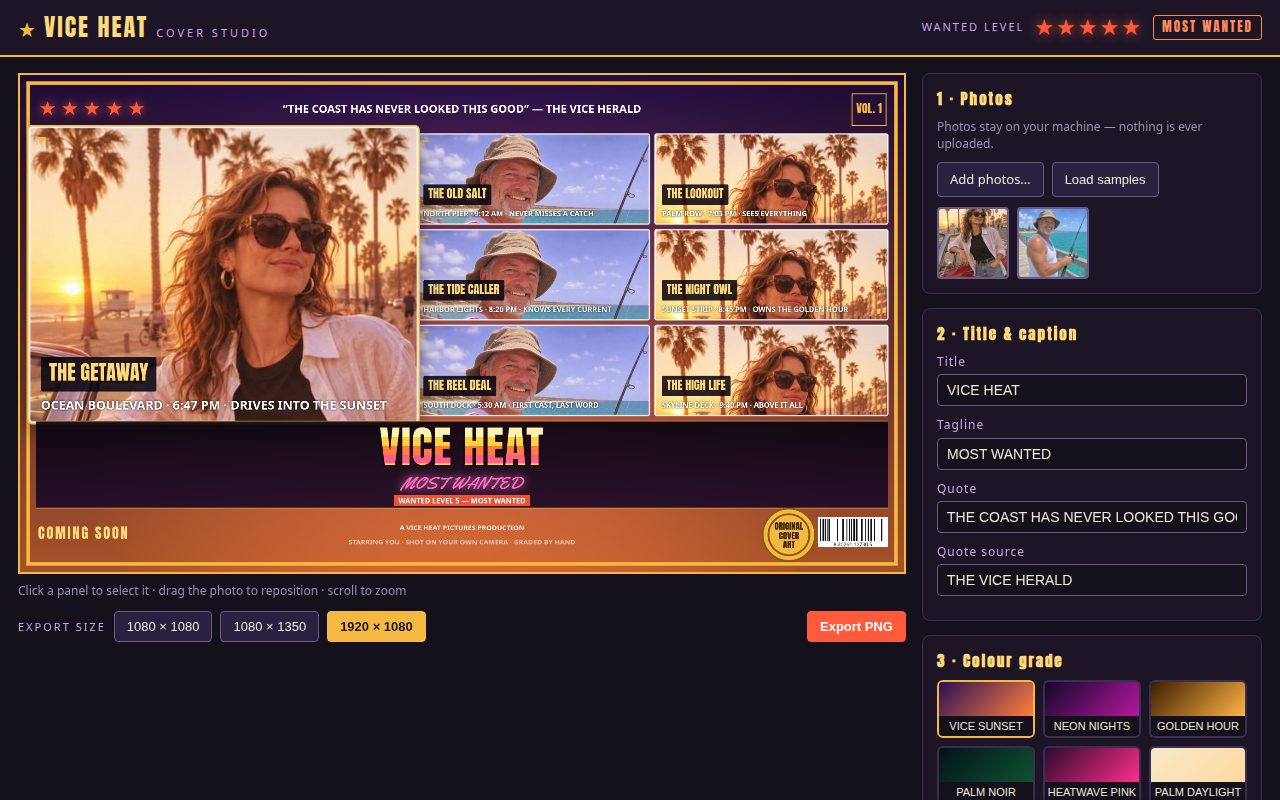
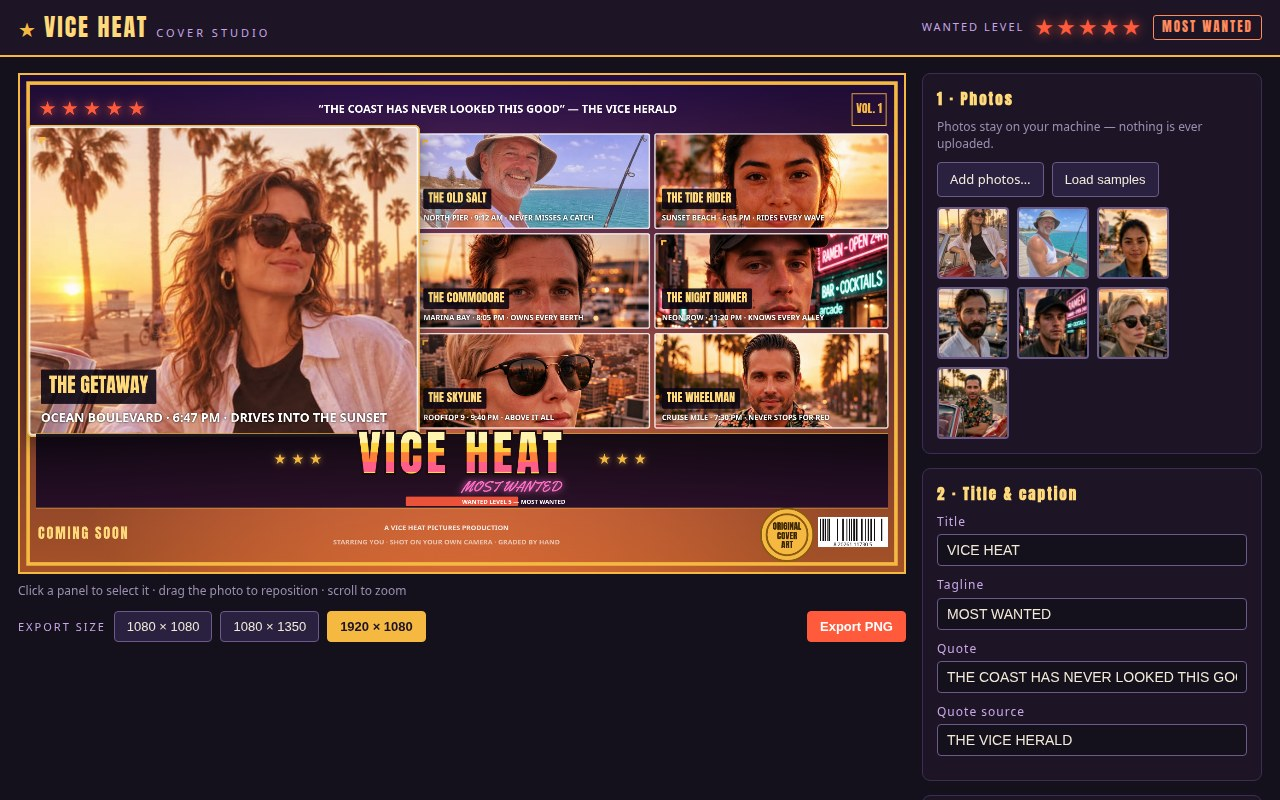
Fix 1 (blind test): 7 distinct photos + bigger title band
- 5 new image-model-made portrait samples (beach/marina/street/rooftop/car),
  face-centered 3:4 crops; 7 photos feed 7 panels, no face repeats
- PANEL_DEFAULTS rewritten to match each new photo; SAMPLE_FACES carries
  measured face points per sample (finder drifts on tall portraits)
- Title band: titleH 0.175H->0.15H, title bigger with wider tracking and 3
  flanking gold stars each side; vertical spacing rebalanced so tagline,
  chip and panel story lines never collide
- Screenshots re-rendered (all <=256 KiB) and viewed; main.ts runs twice
  byte-identical

Changed region(s): [[0.0, 0.125, 1.0, 1.0], [0.5938, 0.625, 0.6562, 0.7188]]

diff --git a/app/app.js b/app/app.js
@@ -39,16 +39,17 @@ const GRADES = [
     title: ["#5b2a86", "#8e44ad", "#ff7e3d", "#d6336c", "#5b2a86"], tagline: "#d6336c", frame: "#8e44ad" },
 ];
 
-// Role, place, time and boast defaults, written for the two sample photos.
-// Every panel gets its own micro-story: PLACE · TIME · BOAST.
+// Role, place, time and boast defaults, written for the seven sample photos:
+// one photo per panel, so no face repeats. Every panel gets its own
+// micro-story: PLACE · TIME · BOAST.
 const PANEL_DEFAULTS = [
   { role: "THE GETAWAY", place: "OCEAN BOULEVARD", time: "6:47 PM", boast: "DRIVES INTO THE SUNSET" },
   { role: "THE OLD SALT", place: "NORTH PIER", time: "9:12 AM", boast: "NEVER MISSES A CATCH" },
-  { role: "THE LOOKOUT", place: "PALM ROW", time: "7:03 PM", boast: "SEES EVERYTHING" },
-  { role: "THE TIDE CALLER", place: "HARBOR LIGHTS", time: "8:20 PM", boast: "KNOWS EVERY CURRENT" },
-  { role: "THE NIGHT OWL", place: "SUNSET STRIP", time: "8:45 PM", boast: "OWNS THE GOLDEN HOUR" },
-  { role: "THE REEL DEAL", place: "SOUTH DOCK", time: "5:30 AM", boast: "FIRST CAST, LAST WORD" },
-  { role: "THE HIGH LIFE", place: "SKYLINE DECK", time: "9:40 PM", boast: "ABOVE IT ALL" },
+  { role: "THE TIDE RIDER", place: "SUNSET BEACH", time: "6:15 PM", boast: "RIDES EVERY WAVE" },
+  { role: "THE COMMODORE", place: "MARINA BAY", time: "8:05 PM", boast: "OWNS EVERY BERTH" },
+  { role: "THE NIGHT RUNNER", place: "NEON ROW", time: "11:20 PM", boast: "KNOWS EVERY ALLEY" },
+  { role: "THE SKYLINE", place: "ROOFTOP 9", time: "9:40 PM", boast: "ABOVE IT ALL" },
+  { role: "THE WHEELMAN", place: "CRUISE MILE", time: "7:30 PM", boast: "NEVER STOPS FOR RED" },
 ];
 
 const state = {
@@ -146,13 +147,29 @@ function loadImage(src) {
   });
 }
 
+// Face points for the shipped samples, measured from the photos themselves:
+// the skin-cluster finder drifts on tall portraits (it pulls toward neck
+// and shoulders), so the samples carry their own face point. User photos
+// still go through findFacePoint in addPhoto.
+const SAMPLE_FACES = {
+  boulevard: { fx: 0.42, fy: 0.16 },
+  pier: { fx: 0.50, fy: 0.30 },
+  beach: { fx: 0.50, fy: 0.50 },
+  marina: { fx: 0.55, fy: 0.34 },
+  street: { fx: 0.50, fy: 0.49 },
+  rooftop: { fx: 0.50, fy: 0.50 },
+  car: { fx: 0.52, fy: 0.34 },
+};
+
 async function loadSamples() {
-  const names = ["boulevard", "pier"];
+  const names = ["boulevard", "pier", "beach", "marina", "street", "rooftop", "car"];
   for (const name of names) {
     if (state.photos.some((p) => p.name === name)) continue;
     try {
       const img = await loadImage(`samples/${name}.jpg`);
-      addPhoto(img, name);
+      const photo = addPhoto(img, name);
+      const known = SAMPLE_FACES[name];
+      if (known) { photo.fx = known.fx; photo.fy = known.fy; }
     } catch (e) { /* sample missing: keep going */ }
   }
   rebuildPanels();
@@ -201,7 +218,7 @@ function computeLayout(W, H, count) {
   const m = Math.round(W * 0.018);
   const gap = Math.max(4, Math.round(W * 0.006));
   const topH = Math.round(H * 0.075);
-  const titleH = Math.round(H * 0.175);
+  const titleH = Math.round(H * 0.15);
   const footH = Math.round(H * 0.085);
   const panelsY = m + topH + gap;
   const panelsH = H - m * 2 - topH - titleH - footH - gap * 3;
@@ -504,10 +521,11 @@ function renderPoster(c, W, H) {
   c.stroke();
 
   const titleMaxW = W - L.m * 2 - 40;
-  const titleSize = fitFont(c, state.title, "Anton", titleMaxW, Math.round(L.titleH * 0.42) * titleScale());
+  const titleSize = fitFont(c, state.title, "Anton", titleMaxW, Math.round(L.titleH * 0.54) * titleScale());
   c.font = `${titleSize}px "Anton"`;
-  if ("letterSpacing" in c) c.letterSpacing = `${Math.max(1, titleSize * 0.02)}px`;
-  const titleY = bandY + L.titleH * 0.36;
+  const tracking = Math.max(1, titleSize * 0.08);
+  if ("letterSpacing" in c) c.letterSpacing = `${tracking}px`;
+  const titleY = bandY + L.titleH * 0.35;
   const grad = stripeGradient(c, 0, titleY - titleSize * 0.55, 0, titleY + titleSize * 0.45, g.title);
   c.textAlign = "center";
   c.textBaseline = "middle";
@@ -516,11 +534,29 @@ function renderPoster(c, W, H) {
   c.strokeText(state.title, W / 2, titleY);
   c.fillStyle = grad;
   c.fillText(state.title, W / 2, titleY);
+  // Gold stars flank the title so the band reads full, not empty: three on
+  // each side, measured from the title's own width including its tracking.
+  const titleW = c.measureText(state.title).width + tracking * (state.title.length - 1);
+  const flankSize = Math.round(titleSize * 0.30);
+  const flankGap = Math.round(titleSize * 0.35);
+  c.font = `${flankSize}px system-ui, sans-serif`;
+  c.fillStyle = g.frame;
+  c.shadowColor = "rgba(245,185,66,0.8)";
+  c.shadowBlur = Math.max(6, flankSize * 0.4);
+  c.textAlign = "right";
+  for (let i = 0; i < 3; i++) {
+    c.fillText("★", W / 2 - titleW / 2 - flankGap - i * flankSize * 1.25, titleY);
+  }
+  c.textAlign = "left";
+  for (let i = 0; i < 3; i++) {
+    c.fillText("★", W / 2 + titleW / 2 + flankGap + i * flankSize * 1.25, titleY);
+  }
+  c.shadowBlur = 0;
   if ("letterSpacing" in c) c.letterSpacing = "0px";
 
   // Neon script tagline under the title, glowing. It sits clear of the
   // wanted chip, which lives at the very bottom of the band.
-  const tagSize = Math.max(14, Math.round(L.titleH * 0.20));
+  const tagSize = Math.max(14, Math.round(L.titleH * 0.19));
   c.font = `${tagSize}px "Yellowtail"`;
   c.fillStyle = g.tagline;
   c.shadowColor = g.tagline;

diff --git a/BUILD-LOG.md b/BUILD-LOG.md
@@ -91,3 +91,58 @@ Three things that beat #1, all visible in the screenshots:
 
 - No submit, no quota use, no README/About, no claim. Repo is ready for
   Kimo main's 4-point check + README/About + submit when Tommy says so.
+
+## Fix 1 — blind-test fixes (20 Nov ~19:00 WIB, fixer session)
+
+Blind test v1: kita 44,67 vs Top 1 57,67 / Top 3 56,33 / Top 5 55,00 — GATE GAGAL.
+Dua kelemahan unanim evaluator, dan hanya dua ini yang diperbaiki:
+
+### 1. Variasi foto (Photo use mean 3,67)
+- 5 foto portrait TAMBAHAN, image-model-made (bukan foto orang nyata, bukan
+  artwork GTA/Rockstar), gaya warm sunset / Vice City, orang + setting berbeda:
+  beach.jpg (pantai, wanita kepang, denim), marina.jpg (dermaga yacht, pria
+  berjanggut), street.jpg (jalanan neon, pria bertopi), rooftop.jpg (rooftop
+  skyline, wanita pirang), car.jpg (mobil convertible merah, pria kemeja Hawaii).
+- Foto baru di-crop tengah ke 3:4 (pusat pada wajah) supaya irisan vertikal
+  panel yang lebar tidak memotong wajah; total samples 2,67 MB.
+- loadSamples() kini memuat 7 foto; panel ke-i memakai foto ke-i, jadi ketujuh
+  panel menampilkan foto BERBEDA. PANEL_DEFAULTS ditulis ulang agar role +
+  micro-story tiap panel cocok dengan fotonya (THE TIDE RIDER / SUNSET BEACH,
+  THE COMMODORE / MARINA BAY, THE NIGHT RUNNER / NEON ROW, THE SKYLINE /
+  ROOFTOP 9, THE WHEELMAN / CRUISE MILE).
+- Face point: SAMPLE_FACES menyimpan titik wajah tiap sample yang diukur dari
+  fotonya sendiri — skin-cluster finder meleset pada portrait tinggi (menarik
+  ke leher/bahu). Foto pengguna tetap lewat findFacePoint. Koreksi saat
+  verifikasi: boulevard fy 0,35 -> 0,16 (foto full-body, wajah di atas) —
+  tanpa koreksi ini hero di layout portrait terpotong wajahnya.
+- Catatan: media tool ikut menulis 5 file JSON sidecar ke app/samples/ —
+  dihapus sebelum commit, bukan bagian dari app.
+
+### 2. Band judul (Komposisi mean 5,00)
+- titleH 0,175H -> 0,15H (ruang dikembalikan ke panel/hero); judul "VICE HEAT"
+  membesar (faktor 0,42 -> 0,54 dari titleH, plus titleScale) dengan tracking
+  lebih lebar (0,02 -> 0,08) dan 3 bintang emas di tiap sisi judul, sehingga
+  band terisi penuh, bukan ruang hitam kosong.
+- Spasi vertikal band ditata ulang (judul 0,35, tagline 0,72, chip tetap di
+  bawah) setelah render pertama menunjukkan tagline menimpa chip dan judul
+  menempel garis micro-story panel — keduanya diperbaiki dan diverifikasi
+  lewat zoom 2x: semua garis micro-story terbaca penuh, tagline dan chip
+  "WANTED LEVEL 5 — MOST WANTED" bersih.
+- "MOST WANTED" neon + chip + semua furniture (kutipan, segel, billing,
+  barcode, VOL. 1, COMING SOON) dipertahankan; judul tetap tidak menutupi wajah.
+
+### Verifikasi (semua PASS)
+- node --check app/app.js OK; tidak ada referensi network baru di kode app
+  (hanya URL di teks lisensi OFL, seperti v1).
+- 4 screenshot di-render ulang via headless Chromium (cara yang sama seperti
+  v1): 01-cover 1280x720 210.531 B; 02-editor 1280x800 205.449 B; 03-square
+  1024x1024 247.412 B; 04-portrait 1024x1280 224.362 B (q80, karena q88
+  284.800 B melewati batas 256 KiB) — semua ≤256 KiB, sisi panjang ≤1280,
+  sisi pendek ≥480. Keempatnya dilihat: 7 wajah berbeda di semua panel,
+  wajah hero utuh di ketiga layout cover, tidak ada teks terpotong.
+- MAKEFUN_OUTPUT_DIR=/tmp/out-fix1 dan /tmp/out-fix2 -> byte-identical
+  (diff -r bersih); output 4.091.226 B; dossier.json 1.233.585 B.
+- app/ total 1.969.887 B (batas 48 MiB).
+
+### Tidak dilakukan (milik Kimo main)
+- Tidak ada submit, kuota, README/About, klaim. Recording STRICT masih jalan.
